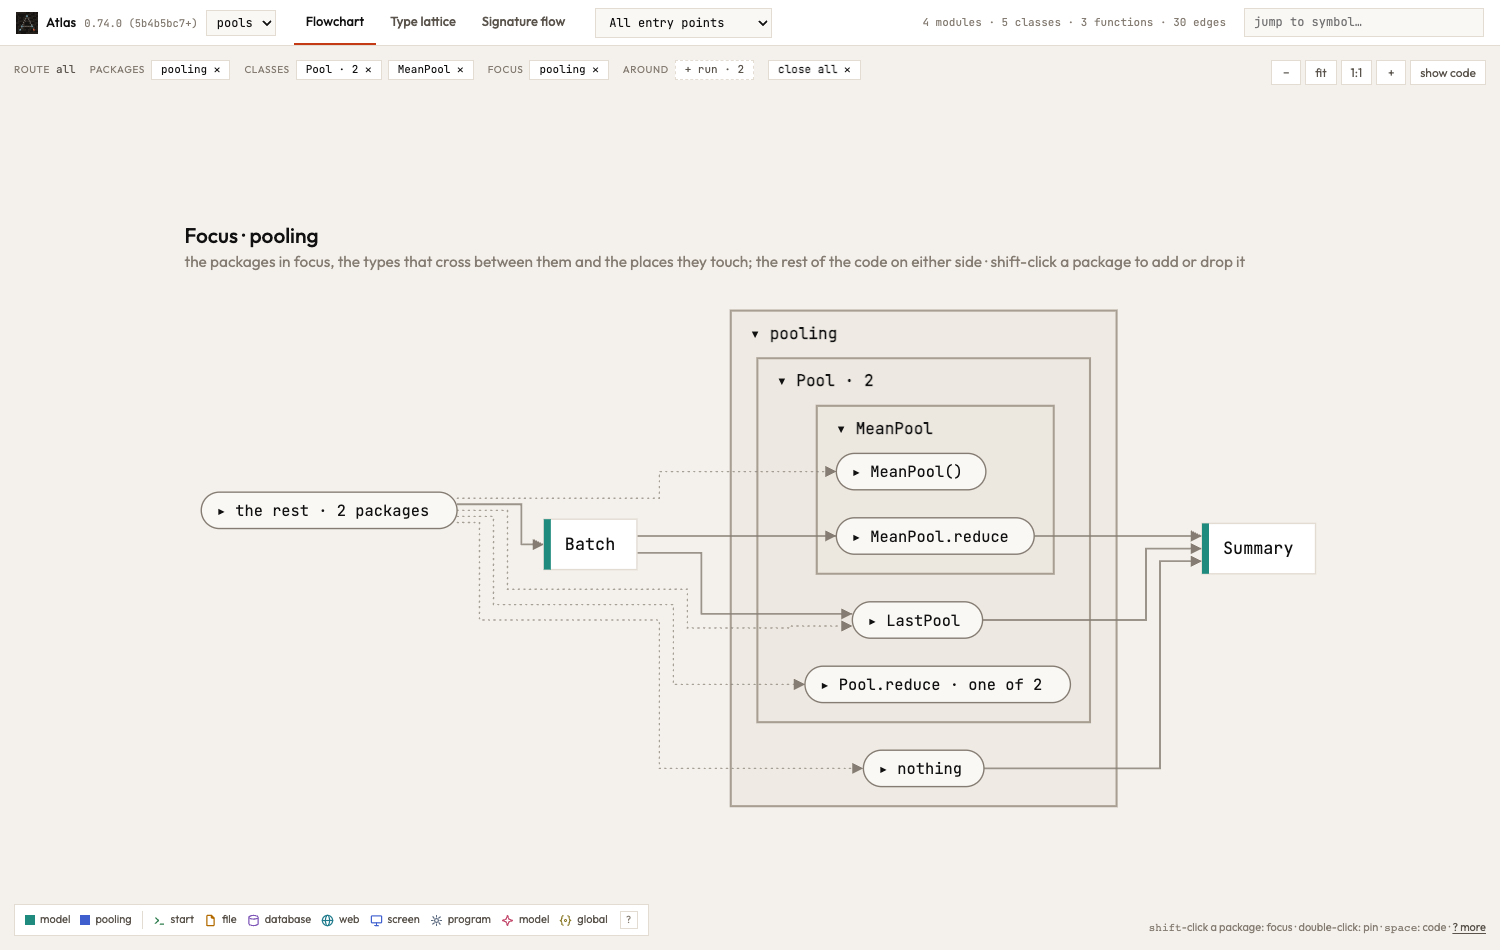
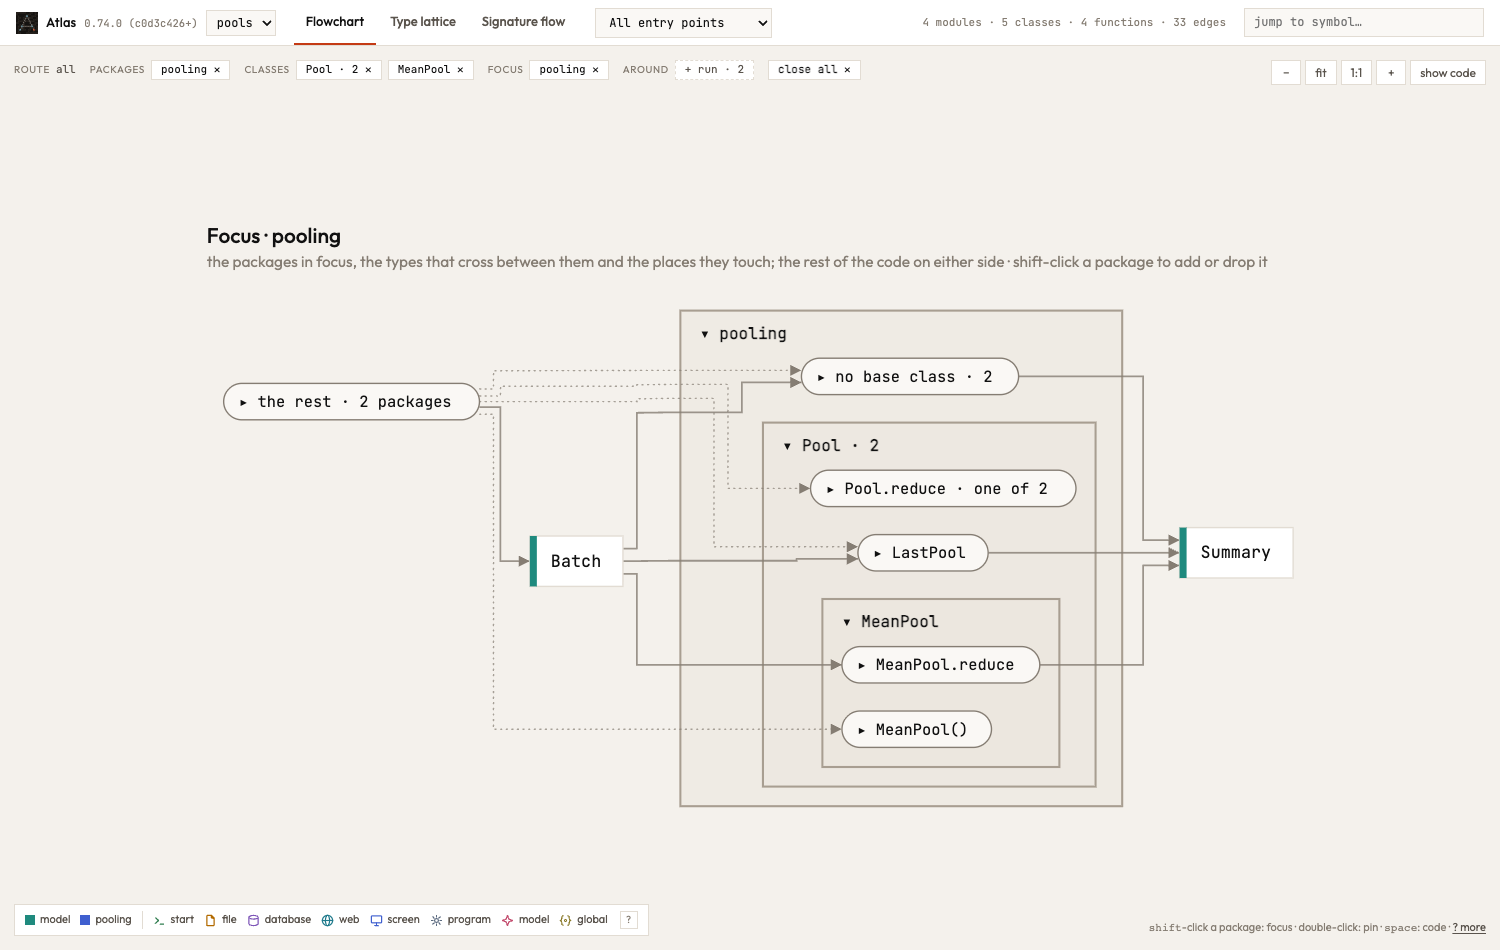
Each line of a focus stays a line of its own; the note of #461 with its picture (#461)

diff --git a/viewer/index.html b/viewer/index.html
@@ -1390,8 +1390,8 @@ async function renderPlaat(mine) {
   Object.assign(root, {layoutOptions: {"elk.algorithm": "layered", "elk.direction": "RIGHT", "elk.hierarchyHandling": "INCLUDE_CHILDREN", "elk.edgeRouting": "ORTHOGONAL", "elk.layered.spacing.nodeNodeBetweenLayers": "56", "elk.spacing.nodeNode": "16", "elk.layered.nodePlacement.strategy": "BRANDES_KOEPF", "elk.spacing.edgeNode": "14", "elk.layered.spacing.edgeNodeBetweenLayers": "16", "elk.layered.considerModelOrder.strategy": root.edges.length <= ORDERED_LINES ? "NODES_AND_EDGES" : "NONE"}});
   // A focus is three columns: what it takes, its functions, what it gives. The code's order says nothing between functions
   // that no line orders, so the boxes are placed by their lines alone, straight where they can be (network simplex, while
-  // the lines are few enough to afford it), and the lines of one box leave it as one and part where they must
-  if (V.focus.size && !DIFF) Object.assign(root.layoutOptions, {"elk.layered.considerModelOrder.strategy": "NONE", "elk.layered.mergeEdges": "true", "elk.layered.spacing.edgeEdgeBetweenLayers": "5", "elk.layered.spacing.edgeNodeBetweenLayers": "10", "elk.layered.spacing.nodeNodeBetweenLayers": "36", ...(root.edges.length <= ORDERED_LINES ? {"elk.layered.nodePlacement.strategy": "NETWORK_SIMPLEX"} : {})});
+  // the lines are few enough to afford it); each line stays a line of its own, so that it can be followed from box to box
+  if (V.focus.size && !DIFF) Object.assign(root.layoutOptions, {"elk.layered.considerModelOrder.strategy": "NONE", "elk.layered.spacing.edgeEdgeBetweenLayers": "5", "elk.layered.spacing.edgeNodeBetweenLayers": "10", "elk.layered.spacing.nodeNodeBetweenLayers": "36", ...(root.edges.length <= ORDERED_LINES ? {"elk.layered.nodePlacement.strategy": "NETWORK_SIMPLEX"} : {})});
   let layout;
   laying(root, () => mine === undefined || mine === renderSeq);
   try { layout = await laidOut(root); } catch (err) { if (err === SUPERSEDED) return; throw err; }

diff --git a/docs/changes/461.md b/docs/changes/461.md
@@ -9,4 +9,6 @@ view: {"focus":["pools.pooling"],"open":{"units":["pools.pooling"],"bases":["poo
 Below a module Atlas drew every method as a box of its own. The hierarchy now goes on: a class closed is one box, the
 arrow from what its methods take to what they give; the classes that keep the promise of one base are one box above
 them, `Pool · 2`, and each opens with a click. A package of modules can be grouped by base class instead of by module
-(the state bar's `+ <package> by base class`). Classes that share no base in the code are no family in the picture.
+(the state bar's `+ <package> by base class`). Classes that share no base in the code are no family in the picture;
+beside a base's block, the code that names no base is a block of its own (`no base class · 2`). A focus is laid out in
+columns, what it takes, its functions, what it gives, and a call between two of its functions is an arc beside them.
